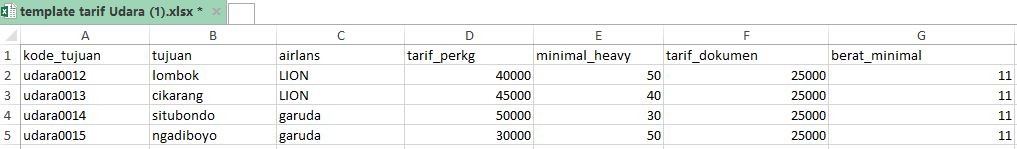
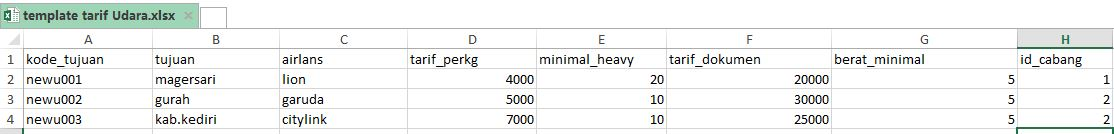
update cabang 4

diff --git a/app/Http/Controllers/Trfudara/Trfudaracontroller.php b/app/Http/Controllers/Trfudara/Trfudaracontroller.php
@@ -6,30 +6,30 @@ use Illuminate\Http\Request;
 use Illuminate\Database\Eloquent\Model;
 use App\Http\Controllers\Controller;
 use App\models\Trfudaramodel;
-
 use App\Imports\TrfudaraImport;
 use App\Exports\TrfudaraExport;
 use Maatwebsite\Excel\Facades\Excel;
 use Illuminate\Support\Facades\Response;
 use Illuminate\Support\Facades\DB;
+
 class Trfudaracontroller extends Controller
 {
     public function index()
     {
-        //
         $udara = DB::table('tarif_udara')
         ->select(DB::raw('tarif_udara.*,cabang.nama as namacabang'))
         ->leftjoin('cabang','cabang.id','=','tarif_udara.id_cabang')
-        ->orderby('cabang.id','desc')
+        ->orderby('tarif_udara.id','desc')
         ->paginate(20);
-    $setting = DB::table('setting')->get();
+        $setting = DB::table('setting')->get();
         return view('trfudara/index',['trf_udara'=>$udara,'title'=>$setting]);
     }
+    //=======================================================================
     public function importexcel (){
         $setting = DB::table('setting')->get();
         return view('trfudara/importexcel',['title'=>$setting]);
     }
-
+    //=======================================================================
     public function downloadtemplate(){
          // $file= base_path()."/../public_html/file/template tarif Udara.xlsx";
         $file="file/template tarif Udara.xlsx";
@@ -37,9 +37,8 @@ class Trfudaracontroller extends Controller
               'Content-Type: application/excel',
             );
     return Response::download($file, 'template tarif Udara.xlsx', $headers);
-    return redirect('trfudara/importexcel');
     }
-
+    //=======================================================================
 
     public function prosesimportexcel(Request $request){
         if($request->hasFile('file')){
@@ -47,22 +46,26 @@ class Trfudaracontroller extends Controller
         }
         return redirect('trfudara')->with('status','Import excel sukses');
     }
-
+    //=======================================================================
     public function exsportexcel(){
     return Excel::download(new TrfudaraExport, 'Export Tarif Udara.xlsx');
     }
-    //-----------------------------------
+    //=======================================================================
     public function caridata(Request $request)
     {
         $cari=$request->cari;
         $trf_udr = DB::table('tarif_udara')
-        ->where('tujuan','like','%'.$cari.'%')
-        ->orwhere('kode','like','%'.$cari.'%')
-        ->orwhere('airlans','like','%'.$cari.'%')
+        ->select(DB::raw('tarif_udara.*,cabang.nama as namacabang'))
+        ->leftjoin('cabang','cabang.id','=','tarif_udara.id_cabang')
+        ->where('tarif_udara.tujuan','like','%'.$cari.'%')
+        ->orwhere('tarif_udara.kode','like','%'.$cari.'%')
+        ->orwhere('tarif_udara.airlans','like','%'.$cari.'%')
+        ->orderby('tarif_udara.id','desc')
         ->get();
         $setting = DB::table('setting')->get();
         return view('trfudara/pencarian', ['trf_udr'=>$trf_udr, 'cari'=>$cari,'title'=>$setting]);
     }
+    //=======================================================================
     public function create()
     {
         $cabang = DB::table('cabang')->get();
@@ -70,10 +73,9 @@ class Trfudaracontroller extends Controller
         $setting = DB::table('setting')->get();
         return view('trfudara/create',['cabang'=>$cabang,'title'=>$setting,'katbar'=>$katebara]);
     }
-
+    //=======================================================================
     public function store(Request $request)
     {
-        //
         $rules = [
             'kode' => 'required',
             'tujuan' => 'required',
@@ -104,6 +106,7 @@ if($dtlam > 0){
 return redirect('trfudara')->with('status','tambah Data Sukses');
 }
     }
+    //=======================================================================
     public function edit($id)
     {
         $cabang = DB::table('cabang')->get();
@@ -115,6 +118,7 @@ return redirect('trfudara')->with('status','tambah Data Sukses');
     $setting = DB::table('setting')->get();
         return view('trfudara/edit',['cabang'=>$cabang,'trfudara'=>$trfudara,'title'=>$setting,'katbar'=>$kate]); 
     }
+    //=======================================================================
     public function update(Request $request, $id)
     {
         $rules = [
@@ -144,13 +148,14 @@ return redirect('trfudara')->with('status','tambah Data Sukses');
         
         return redirect('trfudara')->with('status','Edit Data Sukses');
     }
+    //=======================================================================
     public function destroy(Request $request)
     {
         $id = $request->aid;
         Trfudaramodel::destroy($id);
         return back()->with('status','Hapus Data Sukses');
-        //
     }
+    //=======================================================================
     public function haphapus(Request $request)
     {
             if(!$request->pilihid){
@@ -160,13 +165,14 @@ return redirect('trfudara')->with('status','tambah Data Sukses');
             Trfudaramodel::destroy($id);
             }
         }
-return back()->with('status','Hapus Data Sukses');
-}
-public function hapusall()
-    {
-        $udara='tarif_udara';
-        Trfudaramodel::truncate();
-        return back()->with('status','Hapus Data Sukses');
-        //
+    return back()->with('status','Hapus Data Sukses');
     }
+    //=======================================================================
+    public function hapusall()
+        {
+            $udara='tarif_udara';
+            Trfudaramodel::truncate();
+            return back()->with('status','Hapus Data Sukses');
+        }
+    //=======================================================================
 }

diff --git a/resources/views/trfudara/importexcel.blade.php b/resources/views/trfudara/importexcel.blade.php
@@ -61,22 +61,22 @@
 					<div role="tabpanel" class="tab-pane fade in active show" id="tabs-1-tab-1">
 												<br>
 
-                                               <li>Download file template excel di tab sebelah bagian <b>import Excel.</b> Seperti gambar dibawah ini lalu klik pada bagian <b>Download Template Excel</b>.</li><br>
-                                               <img src="{{url('img/import_export/001.JPG')}}"  width="100%" height="100%">
+                                               <li>Download file template excel di tab <b>import Excel.</b> Seperti gambar dibawah ini lalu klik tombol <b>Download Template Excel</b> & <b>Download Data Cabang</b>.</li><br>
+                                               <img src="{{url('img/import_export/001.JPG')}}"  width="60%">
                                                <p>
                                                <li>
-                                                   Buka file <b>"template tarif Udara.xlsx"</b> kemudian isi data seperti gambar dibawah perhatikan pada bagian <b>tarif_perkg, minimal_heavy, tarif_dokumen dan berat_minimal</b> hanyan diisi dengan angka saja.
+                                                   Buka file <b>"template tarif Udara.xlsx"</b> kemudian isi data seperti gambar dibawah perhatikan pada bagian <b>tarif_perkg, minimal_heavy, tarif_dokumen dan berat_minimal</b> hanyan diisi dengan angka saja. untuk <b>id_cabang</b> isi berdasarkan kode cabang yang berada di file data cabang.
                                                </li><br>
-                                               <img src="{{url('img/import_export/udara.JPG')}}" width="99%">
+                                               <img src="{{url('img/import_export/udara.JPG')}}" width="70%">
                                                <p>
                                                <div class="alert alert-danger">
                                                 <b>NB</b> : Pastikan Untuk <b>tidak</b> menggunakan kode tujuan yang sudah ada. Kode tujuan yang sama <b>Otomatis tidak tersimpan</b>.
                                                </div>
                                                <br>
                                                <li>Kemudian save <b>template tarif Udara.xlsx</b> dan upload di tab sebelah bagian <b>import Excel.</b> Seperti gambar dibawah ini, Lalu klik <b>upload file</b>.</li><br>
-                                               <img src="{{url('img/import_export/001.JPG')}}"  width="100%" height="100%"><br><br>
+                                               <img src="{{url('img/import_export/001.JPG')}}"  width="60%"><br><br>
                                                <li>Untuk export tarif udara sangat sederhana.Lihat gambar dibawah ini.</li><br>
-                                               <img src="{{url('img/import_export/004.JPG')}}"  width="100%" height="100%">
+                                               <img src="{{url('img/import_export/004.JPG')}}"  width="60%">
                                                <br><p></p>
                                                <div class="alert alert-danger">
                                                 <b>NB</b> : Untuk mengurangi kesalahan saat import excel, pastikan data di excel tidak lebih dari 40 baris. 
@@ -86,6 +86,7 @@
 					</div><!--.tab-pane-->
 					<div role="tabpanel" class="tab-pane fade" id="tabs-1-tab-2">
 						<div class="panel-body" align="center">
+							<a href="{{url('exsportcabang')}}" class="btn btn-primary">Download Data Cabang</a>
                                             <a href="{{url('trfudara/download')}}" class="btn btn-info">Download Template Excel</a>
                         </div>
                         <hr>

diff --git a/resources/views/layout/masteradminnew.blade.php b/resources/views/layout/masteradminnew.blade.php
@@ -74,12 +74,11 @@
 	                
 	                        <div class="dropdown dropdown-notification messages">
 	                            @if(Session::get('level') == 'programer' || Session::get('level') == 'superadmin')
-	                            <a href="{{url('backup')}}"><button class="btn btn-rounded" id="dd-header-add" type="button" aria-haspopup="true" aria-expanded="false">
+	                            <a href="{{url('backup')}}" class="btn btn-rounded">
 	                                <i class="glyphicon glyphicon-cloud-download"></i>
-	                            </button></a>
-	                            <a href="{{url('setting')}}"><button class="btn btn-rounded" id="dd-header-add" type="button" aria-expanded="false">
-	                                <i class="font-icon font-icon-cogwheel"></i>
-	                            </button></a>
+	                            </a>
+	                            <a href="{{url('setting')}}" class="btn btn-rounded">
+	                                <i class="font-icon font-icon-cogwheel"></i></a>
 	                            @endif
 	                        </div>
 	
@@ -100,7 +99,7 @@
 	                </div><!--.site-header-shown-->
 	
 	                <div class="mobile-menu-right-overlay"></div>
-	                <div class="site-header-collapsed" style="width: 1000px;">
+	                <div class="site-header-collapsed">
 	                    <div class="site-header-collapsed-in">
 	                        <div class="dropdown dropdown-typical">
 	                        	@if(Session::get('level') == 'programer' || Session::get('level') == 'superadmin' || Session::get('level') == 'admin')
@@ -142,9 +141,16 @@
 				<a class="dropdown-item" href="{{url('admin')}}">Data Admin</a>
 				<div class="dropdown-divider"></div>
 				<a class="dropdown-item" href="{{url('vendor')}}">Data Vendor</a>
+				<div class="dropdown-divider"></div>
+				 <span class="nav-link dropdown-toggle" data-toggle="dropdown">Inventaris</span>
+			<div class="dropdown-menu">
+				<a class="dropdown-item" href="{{url('/armada')}}">Armada</a>
+				
+			</div><p></p>
 				@if(Session::get('level') == 'programer')
 				<div class="dropdown-divider"></div>
 				<a class="dropdown-item" href="{{url('cabang')}}">Data Cabang</a>
+
 				@endif
 			</div>
 		</li>
@@ -213,14 +219,6 @@
 			</div><p></p>
 	                                <!-- <a class="dropdown-item" href="{{url('/omset')}}">omset</a> -->
 			
-			</div>
-		</li>
-		@endif
-		@if(Session::get('level') == 'programer' || Session::get('level') == 'superadmin' || Session::get('level') == 'admin')
-		<li class="nav-item dropdown">
-			<a class="nav-link dropdown-toggle" data-toggle="dropdown" href="#" role="button" aria-haspopup="true" aria-expanded="false">Inventaris</a>
-			<div class="dropdown-menu">
-				<a class="dropdown-item" href="{{url('armada')}}">Armada</a>
 			</div>
 		</li>
 		@endif

diff --git a/resources/views/trfudara/pencarian.blade.php b/resources/views/trfudara/pencarian.blade.php
@@ -56,6 +56,7 @@
 							<th>Biaya documen</th>
 							<th>Min Heavy cargo</th>
 							<th>Berat Minimal</th>
+							<th>Tarif Cabang</th>
 							<th>Aksi</th>
 							<th  class="text-center"><input type="checkbox" onclick="toggle(this)"/></th>
 						</tr>
@@ -70,6 +71,7 @@
 							<th>Biaya documen</th>
 							<th>Min Heavy cargo</th>
 							<th>Berat Minimal</th>
+							<th>Tarif Cabang</th>
 							<th>Aksi</th>
 							<th  class="text-center"><input type="checkbox" onclick="toggle(this)"/></th>
 						</tr>
@@ -87,14 +89,9 @@
                             <td>{{"Rp ". number_format($row->biaya_dokumen,0,',','.')}}</td>
                             <td>{{$row->minimal_heavy. "kg"}}</td>
                             <td>{{$row->berat_minimal. "kg"}}</td>
-                            <td>
-<form action="{{url('/trfudara/delete') }}"  method="post">
-<a href="{{url('/trfudara/'.$row->id.'/edit')}}" class="btn btn-rimary btn-sm"><i class="fa fa-pencil"></i></a>
-
-                                        {{csrf_field()}}
-                                        	<input type="hidden" name="aid" value="{{$row->id}}">
-<button type="submit" onclick="return confirm('Hapus Data ?')" class="btn btn-danger btn-sm"><i class="fa fa-remove"></i></button>
-                    			</form>
+                            <td>{{$row->namacabang}}</td>
+                            <td class="text-center">
+								<a href="{{url('/trfudara/'.$row->id.'/edit')}}" class="btn btn-rimary btn-sm">Edit</a>
                             </td>
                             <td align="center">&nbsp;&nbsp;&nbsp;<input name="pilihid[]" type="checkbox"  id="checkbox[]" value="{{$row->id}}"  ></td>
 						</tr>
@@ -122,7 +119,7 @@
 		$(function() {
 			$('#example').DataTable({
             responsive: true,
-            "paging":false
+            "paging":true
         });
 		});
 		function toggle(source) {

diff --git a/app/Imports/TrfudaraImport.php b/app/Imports/TrfudaraImport.php
@@ -1,39 +1,34 @@
 <?php
 namespace App\Imports;
-
 use Illuminate\Support\Facades\DB;
 use Illuminate\Support\Collection;
 use Maatwebsite\Excel\Concerns\ToCollection;
 use Maatwebsite\Excel\Concerns\WithHeadingRow;
 
 class TrfudaraImport implements ToCollection, WithHeadingRow{
-    /**
-    * @param Collection $collection
-    */
+    
     public function collection(Collection $roww)
     {
         foreach ($roww as $row){
             $kode=$row['kode_tujuan'];
-            // dd($kode);
-$dtlam= DB::table('tarif_udara')->where('kode',$kode)->count();
-if($dtlam > 0){
-        // $status = "Maaf Ada Data Yang Sama";
-}else{
-        foreach ($roww as $row){
-    	 DB::table('tarif_udara')->insert([
+            $dtlam= DB::table('tarif_udara')->where('kode',$kode)->count();
+            if($dtlam == 0){
+                foreach ($roww as $row){
+                    $data[] = [
                     'kode'=>$row['kode_tujuan'],
                     'tujuan'=>$row['tujuan'],
                     'airlans'=>$row['airlans'],
                     'perkg'=>$row['tarif_perkg'],
                     'minimal_heavy'=>$row['minimal_heavy'],
                     'biaya_dokumen'=>$row['tarif_dokumen'],
-                    'berat_minimal'=>$row['berat_minimal']
-                    
-                    ]);
-    	}
+                    'berat_minimal'=>$row['berat_minimal'],
+                    'id_cabang'=>$row['id_cabang']
+                    ];
+    	           
+    	       }
 
+            }
+        }
+        DB::table('tarif_udara')->insert($data);
     }
-
-    }
-}
 }

diff --git a/resources/views/dashboard/index.blade.php b/resources/views/dashboard/index.blade.php
@@ -33,7 +33,7 @@
                 </div>
                     @endif
                   @if(Session::get('level') == 'programer' || Session::get('level') == 'superadmin' || Session::get('level') == 'admin')
-                 @if($jumlahtotalresi > 500)
+                 @if($jumlahtotalresi > 1000)
                   <div class="col-xl-12 dahsboard-column">
                     <div class="alert alert-danger alert-dismissable">
                         <button type="button" class="close" data-dismiss="alert" aria-hidden="true">&times;</button>
@@ -42,6 +42,12 @@
                 </div>
                  @endif
                  @endif
+                 <div class="col-xl-12 dahsboard-column">
+                    <div class="alert alert-warning alert-dismissable">
+                                <button type="button" class="close" data-dismiss="alert" aria-hidden="true">&times;</button>
+                                Dear Client, Saat ini sistem cabang sedang dikembangkan, harap tidak menginputkan barang dengan cabang klc surabaya terlebih dahulu :D
+                    </div>
+                </div>
               	@if($jumlahpajakarmada > 0)
               	<div class="col-xl-12 dahsboard-column">
               		<section class="box-typical box-typical-dashboard panel panel-default scrollable">

diff --git a/app/Exports/TrfudaraExport.php b/app/Exports/TrfudaraExport.php
@@ -13,7 +13,7 @@ class TrfudaraExport implements FromCollection, WithHeadings, ShouldAutoSize
     */
     public function collection()
     {
-    	return DB::table('tarif_udara')->select('kode','tujuan','airlans','perkg','berat_minimal','minimal_heavy','biaya_dokumen')->get();;
+    	return DB::table('tarif_udara')->select('kode','tujuan','airlans','perkg','berat_minimal','minimal_heavy','biaya_dokumen','id_cabang')->get();;
         //
     }
     public function headings(): array
@@ -26,6 +26,7 @@ class TrfudaraExport implements FromCollection, WithHeadings, ShouldAutoSize
             'berat_minimal',
             'minimal_heavy',
             'tarif_dokumen',
+            'id cabang'
         ];
     }
 }
